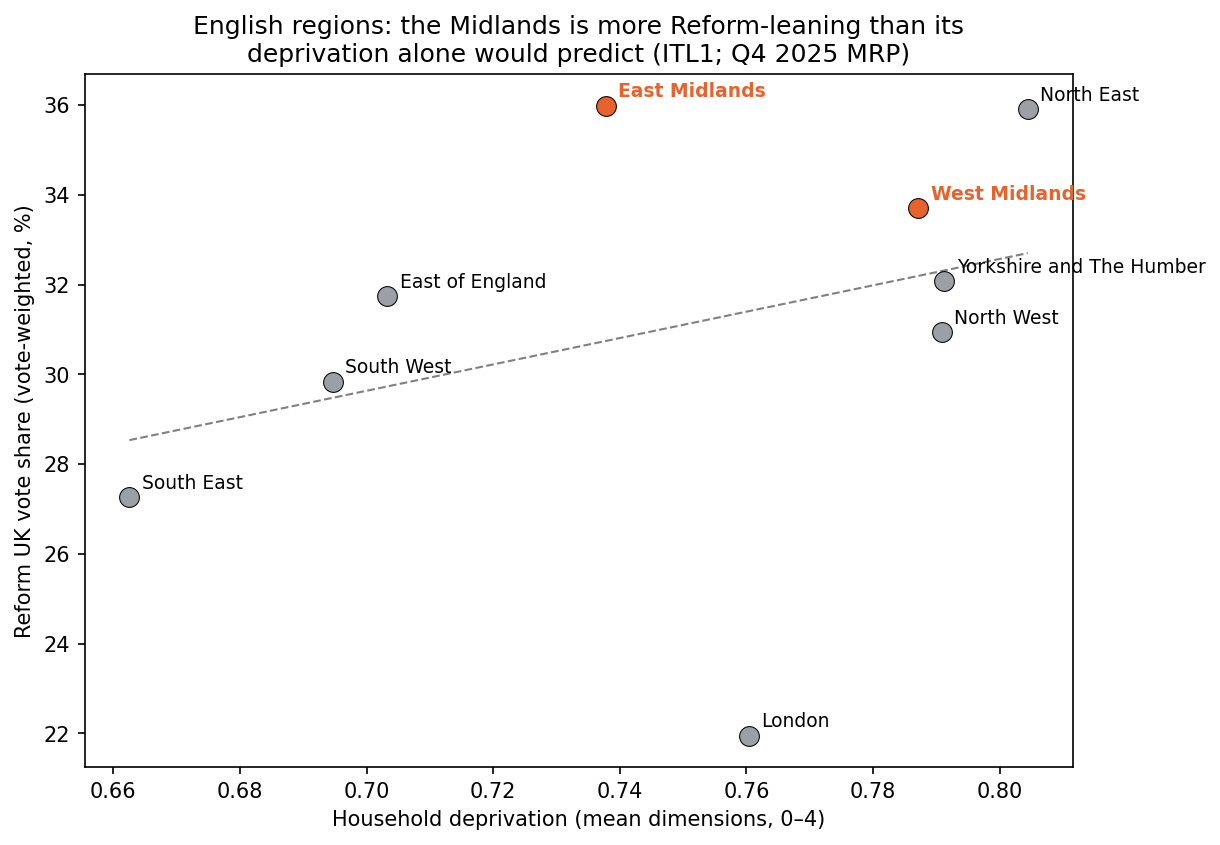
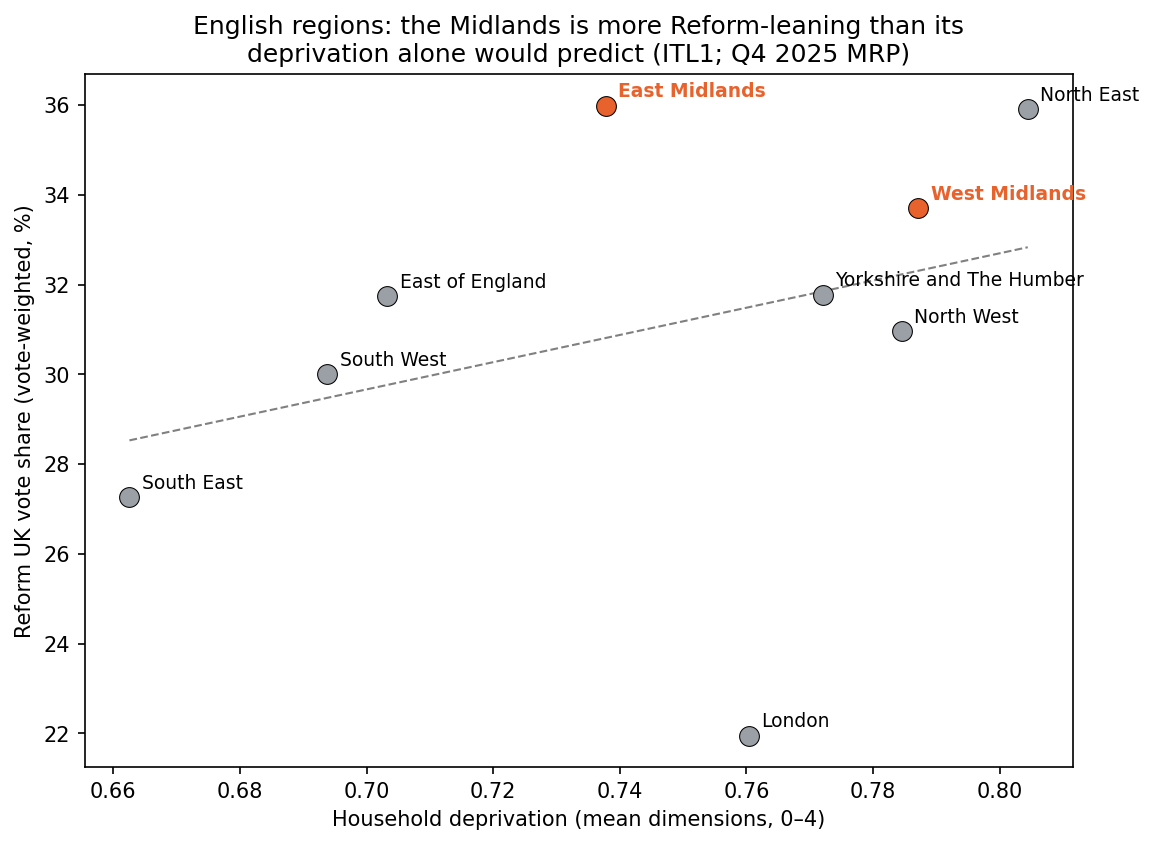
adjust ward definitions and boundaries so those sliipping out of MRP ward boundaries are included in analysis

diff --git a/regeneration_funding/midlands/additional_demog_political_analysis.py b/regeneration_funding/midlands/additional_demog_political_analysis.py
@@ -32,6 +32,10 @@ sections:
         actuals (diversity still tracks Reform, not deprivation) -> 15_wm_2026_diversity.*
     2j  Why the raw diversity gradient looks cleaner in the
         East: deprivation-diversity coupling + partials        -> 16_dep_diversity_coupling.*
+    2k  Regional maps of Reform & Green vote share vs their
+        demographics (adjusted for deprivation, diversity, age) -> 17_party_performance_residual_maps.png
+    2l  Electoral volatility (Pedersen index) by region,
+        GE2017 -> 2019 -> 2024                                  -> 18_electoral_volatility.csv
 
 (The funded-vs-comparable control-pool test now lives in recreate_core_analysis.py, output 04.)
 """
@@ -52,7 +56,7 @@ from matplotlib.lines import Line2D
 from matplotlib.path import Path as MplPath
 from matplotlib.patches import PathPatch
 from matplotlib.collections import PatchCollection
-from matplotlib.colors import Normalize, ListedColormap, to_rgb
+from matplotlib.colors import Normalize, ListedColormap, to_rgb, LinearSegmentedColormap
 from matplotlib.cm import ScalarMappable
 from shapely.geometry import shape
 from shapely.ops import unary_union
@@ -162,6 +166,17 @@ def s1a_east_west_summary(d):
                      / s.population.sum() * 100})
     tab = pd.DataFrame(rows)
 
+    # deprived areas only (LADs at/above the Midlands median deprivation, as in s1e)
+    med = mid.deprivation_mean.median()
+    dep_rows = []
+    for r in ["East Midlands", "West Midlands"]:
+        s = mid[(mid.region == r) & (mid.deprivation_mean >= med)]
+        dep_rows.append({"region": r, "deprived_lads": len(s), "population": s.population.sum(),
+                         "nonwhite_pct_pop_wtd": np.average(s.nonwhite_pct, weights=s.population),
+                         "pct_urban_pop_wtd": s.loc[s.Urban_rural_flag == "Urban", "population"].sum()
+                         / s.population.sum() * 100})
+    dtab = pd.DataFrame(dep_rows)
+
     eng = (f[f.lad.str.startswith("E")].merge(dep[["lad", "deprivation_mean"]], on="lad", how="left")
            .merge(region, on="lad", how="left").dropna(subset=["deprivation_mean", "population"])
            .sort_values("deprivation_mean", ascending=False))
@@ -186,6 +201,13 @@ def s1a_east_west_summary(d):
               "*% non-White = population-weighted Census 2021 share; % urban = share of the region's "
               "population in LADs classified Urban (ONS RUC 2021).*"
               , "",
+              f"## Deprived areas only (LADs at/above the Midlands median deprivation, {med:.3f})",
+              "| Half | Deprived LADs | Population | % non-White | % urban |",
+              "|---|---|---|---|---|"]
+    for _, r in dtab.iterrows():
+        lines.append(f"| {r.region} | {int(r.deprived_lads)} | {r.population:,.0f} | "
+                     f"{r.nonwhite_pct_pop_wtd:.1f}% | {r.pct_urban_pop_wtd:.0f}% |")
+    lines += ["",
               f"Most-deprived decile of England's population = the {dpop:,.0f} people (~10%) in the "
               f"{len(decile)} most-deprived LADs (deprivation >= {decile.deprivation_mean.min():.3f}). Of them:",
               f"- **East Midlands: {pc(em, dpop)}** ({em:,.0f} people)",
@@ -194,6 +216,7 @@ def s1a_east_west_summary(d):
               f"- within the Midlands' share, East {pc(em, em+wm)} / West {pc(wm, em+wm)}"]
     (OUT / "east_west_summary.md").write_text("\n".join(lines), encoding="utf-8")
     tab.to_csv(OUT / "east_west_summary.csv", index=False)
+    dtab.to_csv(OUT / "east_west_summary_deprived.csv", index=False)
     print("\n".join(lines))
     print("   saved -> outputs/east_west_summary.md (+ .csv)")
 
@@ -212,9 +235,8 @@ def s1b_itl1_deprivation_bar(d):
     for i, v in enumerate(g.values):
         ax.text(i, v + 0.005, f"{v:.2f}", ha="center", fontsize=8)
     ax.set_xticks(range(len(g))); ax.set_xticklabels(g.index, rotation=35, ha="right")
-    ax.set_ylabel("Household deprivation (mean dimensions 0–4; higher = more deprived)")
-    ax.set_title("Household deprivation by English region (ITL1)\n"
-                 "population-weighted; Midlands highlighted", fontweight="bold")
+    ax.set_ylabel("Mean household deprivation (0–4)")
+    ax.set_title("Household deprivation by English region (ITL1)", fontweight="bold")
     ax.spines[["top", "right"]].set_visible(False)
     core.save(fig, "itl1_deprivation_bar.png")
 
@@ -958,6 +980,120 @@ def s2j_dep_diversity_coupling(d):
     print("   saved -> outputs/16_dep_diversity_coupling.png")
 
 
+# --------------------------------------------------------------------------- #
+# 2k: regional "heatmaps" of party over/under-performance vs demographics
+#     (vote share adjusted for deprivation, ethnic diversity and age)
+# --------------------------------------------------------------------------- #
+def _ols_residual(y, X):
+    """Residuals of y on [1, X] via least squares (no statsmodels dependency)."""
+    y = np.asarray(y, float)
+    X1 = np.c_[np.ones(len(y)), np.asarray(X, float)]
+    beta = np.linalg.lstsq(X1, y, rcond=None)[0]
+    return y - X1 @ beta
+
+
+# Reform-coded diverging map: grey (under-performs) -> white (0) -> Reform teal (over-performs)
+REFORM_CMAP = LinearSegmentedColormap.from_list(
+    "reform_div", ["#5c5c5c", "#bfbfbf", "#f7f7f7", "#5ec8da", "#12B6CF"])
+
+REGION_SHORT = {"East Midlands": "E Mids", "West Midlands": "W Mids",
+                "East of England": "East", "London": "London", "North East": "NE",
+                "North West": "NW", "South East": "SE", "South West": "SW",
+                "Yorkshire and The Humber": "Yorks"}
+
+
+def s2k_party_performance_residual_maps(d):
+    """Regional maps of how much each party beats (or trails) its demographics: the residual
+    of MRP Q4 2025 vote share after adjusting for deprivation, ethnic diversity and age,
+    averaged by region. East Midlands is the top Reform over-performer; the Greens
+    over-perform in Yorkshire/London/South West, not the West Midlands."""
+    print("\n2k. Reform & Green performance vs demographics (regional residual maps)")
+    base = d.dropna(subset=["deprivation_mean", "nonwhite_pct", "pct_50plus", "region",
+                            "reform_uk_share", "green_share"]).copy()
+    base["reform_pct"] = base.reform_uk_share * 100
+    base["green_pct"] = base.green_share * 100
+    Xcols = ["deprivation_mean", "nonwhite_pct", "pct_50plus"]
+    gj = json.loads((DATA / "england_lad_boundaries.geojson").read_text())
+    geoms = {ft["properties"]["LAD24CD"]: shape(ft["geometry"]) for ft in gj["features"]}
+    # Use the FULL LAD->region lookup (all 296 LADs) for the dissolve so regions render solid;
+    # a few LADs (the 2023 unitaries, Scilly, City of London) lack MRP vote data, so the
+    # regional residual is the mean of the covered LADs but the whole region is still filled.
+    lad_region = pd.read_csv(DATA / "lad24_to_region.csv").set_index("LAD24CD")["RGN24NM"].to_dict()
+
+    parties = [("reform_pct", "Reform UK", REFORM_CMAP), ("green_pct", "Green", "PRGn")]
+    fig, axes = plt.subplots(1, 2, figsize=(15, 9))
+    for ax, (col, label, cmap_spec) in zip(axes, parties):
+        base["resid"] = _ols_residual(base[col].values, base[Xcols].values)
+        rr = base.groupby("region").resid.mean()
+        print(f"   {label}: " + ", ".join(f"{REGION_SHORT[r]} {v:+.1f}"
+              for r, v in rr.sort_values(ascending=False).items()))
+        vmax = float(np.abs(rr).max())
+        norm = Normalize(vmin=-vmax, vmax=vmax)
+        cmap = plt.get_cmap(cmap_spec) if isinstance(cmap_spec, str) else cmap_spec
+        for reg, val in rr.items():
+            union = unary_union([g for cd, g in geoms.items() if lad_region.get(cd) == reg])
+            for p in polys_to_patches(union):
+                ax.add_patch(PathPatch(p, facecolor=cmap(norm(val)), edgecolor="white",
+                                       linewidth=0.6, zorder=2))
+            cx, cy = union.representative_point().coords[0]
+            ax.annotate(f"{REGION_SHORT[reg]}\n{val:+.1f}", (cx, cy), ha="center", va="center",
+                        fontsize=8, fontweight="bold", zorder=4,
+                        bbox=dict(boxstyle="round,pad=0.15", fc="white", ec="none", alpha=0.6))
+        ax.set_aspect("equal"); ax.axis("off"); ax.autoscale_view()
+        ax.set_title(f"{label}: vote vs its demographics", fontsize=12, fontweight="bold")
+        sm_ = ScalarMappable(norm=norm, cmap=cmap); sm_.set_array([])
+        cb = fig.colorbar(sm_, ax=ax, fraction=0.035, pad=0.02, orientation="horizontal")
+        cb.set_label("percentage points above / below predicted", fontsize=8)
+    fig.suptitle("Where each party beats its demographics: MRP vote share adjusted for "
+                 "deprivation, ethnic diversity and age\n(regional average of local-authority "
+                 "residuals; each map scaled to its own party; teal/green = over-performs)",
+                 fontweight="bold", fontsize=11.5)
+    fig.tight_layout(rect=[0, 0, 1, 0.95])
+    fig.savefig(OUT / "17_party_performance_residual_maps.png", dpi=150, bbox_inches="tight")
+    plt.close(fig)
+    print("   saved -> outputs/17_party_performance_residual_maps.png")
+
+
+# --------------------------------------------------------------------------- #
+# 2l: electoral volatility (Pedersen index) by region across GE2017 -> 2019 -> 2024
+# --------------------------------------------------------------------------- #
+def s2l_electoral_volatility():
+    """How much each English region's vote churns between parties: the Pedersen index
+    (half the sum of absolute party vote-share changes) across the 2017, 2019 and 2024
+    general elections. The right-populist family is UKIP (2017) -> Brexit (2019) ->
+    Reform (2024). Tests whether the Midlands swing between parties more than other regions."""
+    print("\n2l. Electoral volatility (Pedersen index) by region, GE2017 -> 2019 -> 2024")
+    GEdir = REPO / "source_data/election_results/national_general_elections"
+    files = {"2017": GEdir / "2017_results_analysis/HoC-GE2017-results-by-constituency.csv",
+             "2019": GEdir / "2019_results_analysis/HoC-GE2019-results-by-constituency.csv",
+             "2024": GEdir / "2024_results_analysis/HoC-GE2024-results-by-constituency.csv"}
+    rightpop = {"2017": "UKIP", "2019": "BRX", "2024": "RUK"}
+    eng = ["East Midlands", "West Midlands", "East of England", "London", "North East",
+           "North West", "South East", "South West", "Yorkshire and The Humber"]
+    parts = ["Con", "Lab", "LD", "Green", "RightPop", "Other"]
+
+    def shares(yr):
+        g = pd.read_csv(files[yr]); g = g[g["Region name"].isin(eng)]; rp = rightpop[yr]
+        rows = []
+        for reg, s in g.groupby("Region name"):
+            v = s["Valid votes"].sum()
+            d = {"Con": s.Con.sum(), "Lab": s.Lab.sum(), "LD": s.LD.sum(),
+                 "Green": s.Green.sum(), "RightPop": s[rp].sum()}
+            d["Other"] = v - sum(d.values())
+            rows.append({"region": reg, **{k: val / v * 100 for k, val in d.items()}})
+        return pd.DataFrame(rows).set_index("region")
+
+    sh = {yr: shares(yr) for yr in files}
+    ped = lambda a, b: 0.5 * (a[parts] - b[parts]).abs().sum(axis=1)
+    vol = pd.DataFrame({"vol_2017_2019": ped(sh["2019"], sh["2017"]),
+                        "vol_2019_2024": ped(sh["2024"], sh["2019"])})
+    vol["vol_total_2017_2024"] = vol.vol_2017_2019 + vol.vol_2019_2024
+    vol = vol.sort_values("vol_total_2017_2024", ascending=False)
+    vol.round(2).to_csv(OUT / "18_electoral_volatility.csv")
+    print(vol.round(1).to_string())
+    print("   saved -> outputs/18_electoral_volatility.csv")
+
+
 def main():
     print("=" * 74)
     print("ADDITIONAL DEMOGRAPHIC & POLITICAL ANALYSIS (MIDLANDS)")
@@ -981,6 +1117,8 @@ def main():
     s2h_wm_2026_breakthrough()
     s2i_wm_2026_diversity()
     s2j_dep_diversity_coupling(d)
+    s2k_party_performance_residual_maps(d)
+    s2l_electoral_volatility()
 
     print("\n" + "=" * 74 + "\nDone. Tables and charts in ./outputs\n" + "=" * 74)
 

diff --git a/regeneration_funding/midlands/recreate_core_analysis.py b/regeneration_funding/midlands/recreate_core_analysis.py
@@ -157,6 +157,18 @@ def load_funding():
     return f
 
 
+# April-2023 unitaries -> their pre-2023 component districts, so census/MRP data keyed
+# to the old geography can be bridged up to the 2024 unitary codes (used by both the
+# deprivation loader and the MRP vote-share aggregator).
+UNITARY_2023 = {
+    "E06000063": ["E07000026", "E07000028", "E07000029"],                       # Cumberland
+    "E06000064": ["E07000027", "E07000030", "E07000031"],                       # Westmorland & Furness
+    "E06000065": ["E07000163", "E07000164", "E07000165", "E07000166",
+                  "E07000167", "E07000168", "E07000169"],                       # North Yorkshire
+    "E06000066": ["E07000187", "E07000188", "E07000189", "E07000246"],          # Somerset
+}
+
+
 # --------------------------------------------------------------------------- #
 # 3. Deprivation (ONS Census 2021 household deprivation, 6 categories)
 #    Mean number of deprivation dimensions per household (0-4); higher = more
@@ -176,13 +188,6 @@ def load_deprivation():
     ).reset_index()
     # The 2021 census predates the April-2023 unitaries, so build them from their
     # component districts (household-weighted) to keep England-wide rankings complete.
-    UNITARY_2023 = {
-        "E06000063": ["E07000026", "E07000028", "E07000029"],                       # Cumberland
-        "E06000064": ["E07000027", "E07000030", "E07000031"],                       # Westmorland & Furness
-        "E06000065": ["E07000163", "E07000164", "E07000165", "E07000166",
-                      "E07000167", "E07000168", "E07000169"],                       # North Yorkshire
-        "E06000066": ["E07000187", "E07000188", "E07000189", "E07000246"],          # Somerset
-    }
     extra = []
     for new, olds in UNITARY_2023.items():
         sub = g[g.lad.isin(olds)]
@@ -252,6 +257,20 @@ def _agg_quarter(df, w22, w24):
         out[f"{name}_share"] = lad[PREF + suf] / lad[tot]
     out["seat_safeness"] = lad[mar] / lad[tot]
     out["total_votes"] = lad[tot]
+    # Bridge the April-2023 unitaries from their component districts (vote-weighted),
+    # since the MRP wards are keyed to the old (pre-2023) district geography.
+    extra = []
+    for new, olds in UNITARY_2023.items():
+        sub = out[out.lad.isin(olds)]
+        if len(sub):
+            w = sub.total_votes
+            row = {"lad": new, "total_votes": float(w.sum())}
+            for c in out.columns:
+                if c.endswith("_share") or c == "seat_safeness":
+                    row[c] = float(np.average(sub[c], weights=w))
+            extra.append(row)
+    if extra:
+        out = pd.concat([out, pd.DataFrame(extra)], ignore_index=True)
     return out
 
 

diff --git a/regeneration_funding/midlands/README.md b/regeneration_funding/midlands/README.md
@@ -41,7 +41,11 @@ Reform **trajectory** against hard election data: the MRP quarters plus GE 2019/
 (`14`, actual ward results vs the YouGov MRP), whether diverse deprived areas backed Reform
 "just as much" (`15`, they did not — diversity still tracks Reform), and why the raw
 diversity gradient looks cleaner in the East (`16`, deprivation-diversity coupling +
-partials).
+partials). Finally, regional maps of each party's over/under-performance versus its
+demographics (`17`, MRP vote share adjusted for deprivation, diversity and age; the East
+Midlands is the top Reform over-performer), and electoral volatility by region (`18`, the
+Pedersen index across GE2017 → 2019 → 2024, on which the Midlands are the 2nd and 3rd most
+volatile English regions).
 (The control-pool Reform test now lives in the core script, `04`.)
 
 ## Run
